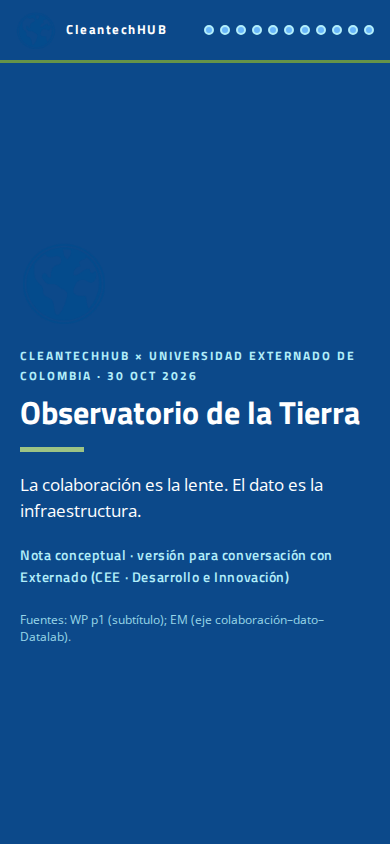
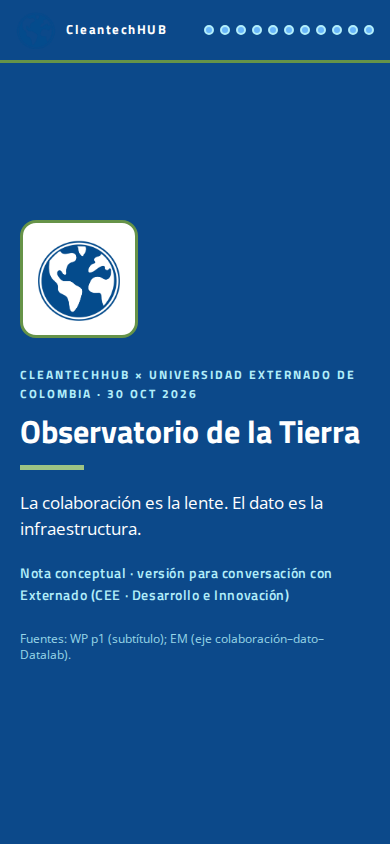
Improve cover globe contrast on dark background

Changed region(s): [[0.0308, 0.2464, 0.9231, 0.8009]]

diff --git a/decks/earth-observatory-externado-2026-10/index.html b/decks/earth-observatory-externado-2026-10/index.html
@@ -66,9 +66,14 @@ body {
   padding-top: clamp(4.5rem, 10vw, 6rem);
 }
 .cover-hero { text-align: left; opacity: 1; transform: none; }
+.cover-hero .cover-logo-wrap {
+  display: inline-block; padding: 12px; margin-bottom: 1.25rem;
+  background: var(--white); border-radius: 16px;
+  border: 3px solid var(--fg);
+}
 .cover-hero .cover-logo {
   width: 88px; height: 88px; object-fit: contain;
-  display: block; margin-bottom: 1.25rem;
+  display: block;
 }
 .cover-hero h1,
 .cover-hero .lead,
@@ -280,7 +285,9 @@ h2 {
 <!-- 1 Portada -->
 <section id="s1" class="section deep cover">
   <div class="inner cover-hero">
-    <img class="cover-logo" src="img/cth-globe-logo.svg" width="88" height="88" alt="CleantechHUB">
+    <div class="cover-logo-wrap">
+      <img class="cover-logo" src="img/cth-globe-logo.svg" width="88" height="88" alt="CleantechHUB">
+    </div>
     <p class="eyebrow">CleantechHUB × Universidad Externado de Colombia · 30 oct 2026</p>
     <h1>Observatorio de la Tierra</h1>
     <div class="accent-bar"></div>
